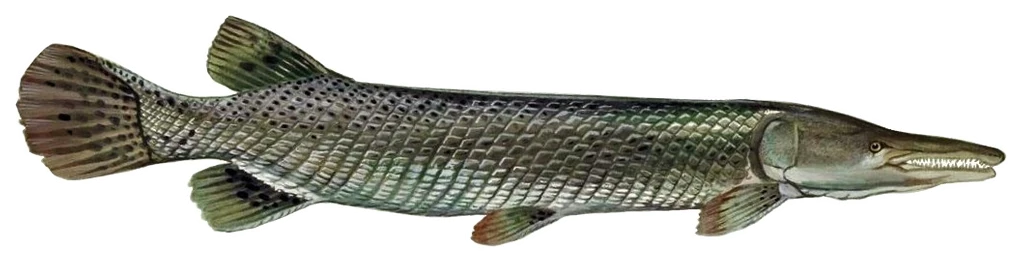
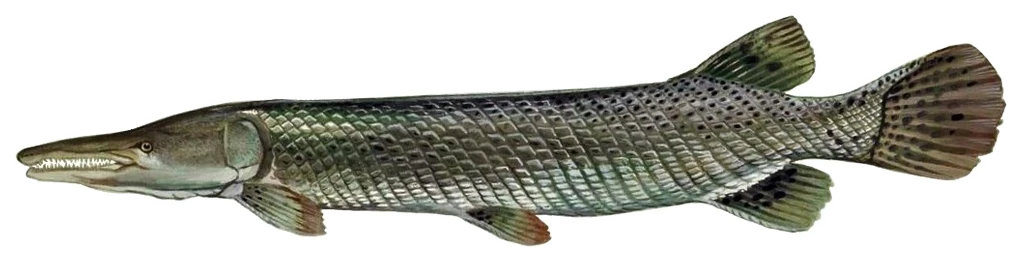
Review fetched fish pictures; resume-safe fetching
- Remove six fetched pictures that were the wrong fish or cut out badly
  (sauger, gag grouper, lake sturgeon, paddlefish, longnose gar,
  freshwater drum); they fall back to drawings until replaced.
- Mirror right-facing fish so every species faces left.
- fetch_photos.py waits and retries when a site rate-limits (429), and cuts
  each fish out as soon as it's saved, so a stopped run resumes cleanly.

Claude-Session: https://claude.ai/code/session_01Adx9ptTyezDg4nYTDkQDWK

diff --git a/TideCast/fish-photos/fetch_photos.py b/TideCast/fish-photos/fetch_photos.py
@@ -22,6 +22,7 @@ import os
 import ssl
 import sys
 import time
+import urllib.error
 import urllib.parse
 import urllib.request
 
@@ -60,10 +61,30 @@ def env(name):
     return None
 
 
-def get(url, timeout=30):
-    req = urllib.request.Request(url, headers={"User-Agent": UA})
-    with urllib.request.urlopen(req, timeout=timeout, context=SSL) as r:
-        return r.read(12_000_000)
+_last = [0.0]
+
+
+def get(url, timeout=30, tries=6):
+    """Polite GET: at most ~1 request a second, and wait it out when the site says "slow down"."""
+    for attempt in range(tries):
+        wait = 1.2 - (time.time() - _last[0])
+        if wait > 0:
+            time.sleep(wait)
+        _last[0] = time.time()
+        req = urllib.request.Request(url, headers={"User-Agent": UA})
+        try:
+            with urllib.request.urlopen(req, timeout=timeout, context=SSL) as r:
+                return r.read(12_000_000)
+        except urllib.error.HTTPError as e:
+            if e.code not in (429, 500, 502, 503, 504) or attempt == tries - 1:
+                raise
+            try:
+                pause = float(e.headers.get("Retry-After") or 0)
+            except ValueError:
+                pause = 0
+            pause = max(pause, 5 * 2 ** attempt)          # 5, 10, 20, 40, 80 s
+            print(f"   site busy ({e.code}), waiting {int(pause)} s...")
+            time.sleep(min(pause, 120))
 
 
 def score_text(text):
@@ -196,8 +217,8 @@ def main(only):
         print(f"{name} ({sci})")
         (done if fetch(sid, name, sci) else missed).append(sid)
         print("   ->", "saved" if sid in done else "nothing usable found")
-    if done:
-        make_species.main(done)
+        if sid in done:
+            make_species.main([sid])              # cut out right away, so a stopped run keeps its work
     print(f"\n{len(done)} new pictures.", "Still missing: " + ", ".join(missed) if missed else "")
 
 

diff --git a/TideCast/fish-photos/make_species.py b/TideCast/fish-photos/make_species.py
@@ -57,6 +57,9 @@ PHOTOS = {
 }
 
 
+# Photos where the fish faces right: mirrored so every fish faces left like the rest.
+FLIP = {"alligator-gar", "arctic-grayling", "bonefish", "common-snook", "bowfin"}
+
 # Photos with a pale halo, blocky patch or soft shadow around the fish: remove any light grey.
 LOOSE = {"flathead-catfish.jpg", "yellow-perch.jpg", "Chain Pickerel.png", "Spotted Seatrout.png", "Black Drum.png"}
 
@@ -88,6 +91,8 @@ def fish_mask(rgba, loose=False):
 
 def process(src, dst):
     im = Image.open(src).convert("RGBA")
+    if os.path.basename(dst).rsplit(".", 1)[0] in FLIP:
+        im = im.transpose(Image.FLIP_LEFT_RIGHT)
     a = np.asarray(im)
     mask = fish_mask(a, os.path.basename(src) in LOOSE)
     ys, xs = np.nonzero(mask)

diff --git a/TideCast/fish-photos/CREDITS.md b/TideCast/fish-photos/CREDITS.md
@@ -4,9 +4,7 @@
 - **King Mackerel** (`king-mackerel.jpg`): H. L. Todd, Public domain, https://commons.wikimedia.org/wiki/File:FMIB_50948_Cero_or_Kingfish.jpeg
 - **Alligator Gar** (`alligator-gar.jpg`): Duane Raver, U.S. Fish and Wildlife Service, Public domain, https://commons.wikimedia.org/wiki/File:Alligator_gar_fish_(white_background).jpg
 - **Warmouth** (`warmouth.jpg`): H. L. Todd, Public domain, https://commons.wikimedia.org/wiki/File:FMIB_51019_War-Mouth_Bass.jpeg
-- **Freshwater Drum** (`freshwater-drum.jpg`): USFWS Mountain Prairie, Public domain, https://commons.wikimedia.org/wiki/File:Freshwater_Drum_(49670317296).jpg
 - **Bowfin** (`bowfin.jpg`): Duane Raver/U.S. Fish and Wildlife Service, Public domain, https://commons.wikimedia.org/wiki/File:Amia_calva_(white_background).jpg
-- **Longnose Gar** (`longnose-gar.jpg`): USFWS Mountain-Prairie, CC BY 2.0, https://commons.wikimedia.org/wiki/File:Longnose_Gar_(47488785662).jpg
 - **Coho Salmon** (`coho-salmon.jpg`): NOAA, Public domain, https://commons.wikimedia.org/wiki/File:Oncorhynchus_keta.jpeg
 - **Atlantic Croaker** (`atlantic-croaker.jpg`): H. L. Todd, Public domain, https://commons.wikimedia.org/wiki/File:FMIB_50995_Croaker.jpeg
 - **Bluefish** (`bluefish.png`): Unknown authorUnknown author, Public domain, https://commons.wikimedia.org/wiki/File:Pomatomus_saltatrix.png
@@ -14,13 +12,9 @@
 - **Florida Pompano** (`florida-pompano.jpg`): H. L. Todd, Public domain, https://commons.wikimedia.org/wiki/File:FMIB_50960_Common_Pompano.jpeg
 - **Common Snook** (`common-snook.png`): Clara Costa D'Elia, CC BY 4.0, https://commons.wikimedia.org/wiki/File:Centropomus_undecimalis.png
 - **Bonefish** (`bonefish.jpg`): Iconographia Zoologica, Public domain, https://commons.wikimedia.org/wiki/File:Albula_conorhynchus_-_1700-1880_-_Print_-_Iconographia_Zoologica_-_Special_Collections_University_of_Amsterdam_-_(white_background).jpg
-- **Gag Grouper** (`gag-grouper.jpg`): H. L. Todd, Public domain, https://commons.wikimedia.org/wiki/File:FMIB_51034_Pensacola_Black_Grouper.jpeg
 - **Yellowfin Tuna** (`yellowfin-tuna.jpg`): Hugues Evano (IFREMER, Délégation océan Indien (DOI), Département Ressources Biologiques et Environnement (RBE), F-97420, CC BY 4.0, https://commons.wikimedia.org/wiki/File:Thon_albacore_(Thunnus_albacares)_(Ifremer_00764-87616).jpg
 - **Sailfish** (`sailfish.jpg`): This illustration was made by Citron
 You must credit this : Citron / CC-BY-SA-3.0, CC BY-SA 3.0, https://commons.wikimedia.org/wiki/File:Istiophorus_platypterus.jpg
-- **Sauger** (`sauger.jpg`): USFWS Mountain Prairie, Public domain, https://commons.wikimedia.org/wiki/File:Sauger_(51246897698).jpg
-- **Paddlefish** (`paddlefish.jpg`): USFWS Mountain-Prairie, Public domain, https://commons.wikimedia.org/wiki/File:Leucistic_Fingerling_American_Paddlefish.jpg
-- **Lake Sturgeon** (`lake-sturgeon.jpg`): USFWS Mountain Prairie, Public domain, https://commons.wikimedia.org/wiki/File:Juvenile_Acipenser_fulvescens_white_background.jpg
 - **Arctic Grayling** (`arctic-grayling.jpg`): A. Hoen and Co., Public domain, https://commons.wikimedia.org/wiki/File:Arctic_Grayling_Thymallus_arcticus_arcticus_(white_background).jpg
 - **Bigmouth Buffalo** (`bigmouth-buffalo.jpg`): Edgar R. Waite, Public domain, https://commons.wikimedia.org/wiki/File:Ictiobus_cyprinellus1.jpg
 - **Sockeye Salmon** (`sockeye-salmon.jpg`): Timothy Knepp of the Fish and Wildlife Service, Public domain, https://commons.wikimedia.org/wiki/File:Oncorhynchus_nerka.flipped.jpg
